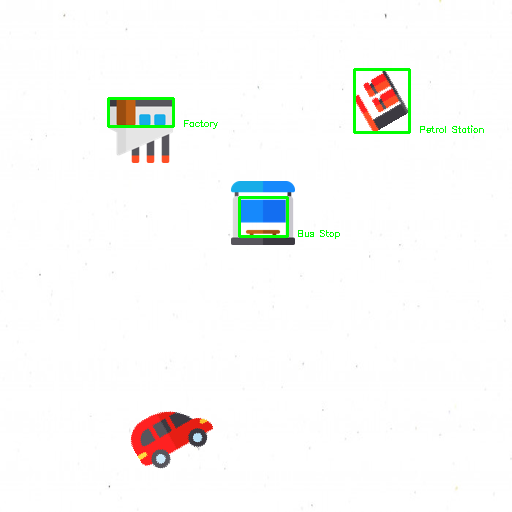
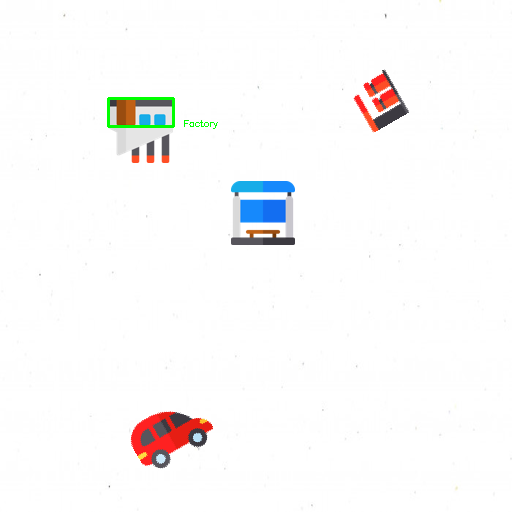
Added custom bfmatcher implementation

Changed region(s): [[0.6875, 0.125, 0.875, 0.2812], [0.4375, 0.375, 0.6562, 0.4688], [0.9062, 0.25, 0.9375, 0.2812]]

diff --git a/task3.py b/task3.py
@@ -3,17 +3,15 @@
 import numpy as np
 import cv2
 import os
-
-from scipy import stats
+import time
 
 # Searches for an icon in an image
 # Input: icon cv2 image; image cv2 image; threshold for accepting a match exists;
 # keypoint descriptors for image; keypoint locations for image; keypoint descriptors for icon
 # Output: array of matching points, each in the form [x, y]
-def findMatchingPoints(icon, image, distanceThreshold, imageDescriptors, imageKeypoints, iconDescriptors):
+def findMatchingPoints(distanceThreshold, imageDescriptors, imageKeypoints, iconDescriptors):
     # Uses sift to generate list of matching points between icon and image
-    bf = cv2.BFMatcher(cv2.NORM_L1, crossCheck = True)
-    matches = bf.match(iconDescriptors, imageDescriptors)
+    matches = matchPoints(iconDescriptors, imageDescriptors)
     # Sorts the matches in ascending order, starting with the closest match 
     matches = sorted(matches, key = lambda x: x.distance)
 
@@ -27,6 +25,31 @@ def findMatchingPoints(icon, image, distanceThreshold, imageDescriptors, imageKe
     # Returns matched points in an easier to use format
     matchedImagePoints = cv2.KeyPoint_convert(matchedImagePoints)
     return matchedImagePoints
+
+def matchPoints(descriptors1, descriptors2):
+    matches = []
+    # Loop through each descriptor in the first set
+    for i, desc1 in enumerate(descriptors1):
+        best_match = None
+        best_distance = float('inf')
+        # Loop through each descriptor in the second set
+        for j, desc2 in enumerate(descriptors2):
+            # Compute distance between descriptors
+            distance = np.linalg.norm(desc1 - desc2, ord=cv2.NORM_L2)
+            # Update best match if distance is smaller
+            if distance < best_distance:
+                best_match = j
+                best_distance = distance
+                
+        # Compute distance from desc2 to desc1
+        distance_reverse = np.linalg.norm(descriptors2[best_match] - desc1, ord=cv2.NORM_L2)
+        # If the match is not symmetric, continue to the next descriptor in set 1
+        if distance_reverse > best_distance:
+            continue
+
+        # Append the best match to the list of matches
+        matches.append(cv2.DMatch(i, best_match, best_distance))
+    return matches
 
 # Generates bounding rectangles around all closed shapes in an image
 # Input: image as cv2 image
@@ -68,9 +91,9 @@ def findBoundingRectangles(image):
 # threshold for determining if two points match; list of bounding rectangles of shapes in image; list of keypoint descriptors in image;
 # list of keypoint locations in image; list of keypoint descriptors in icon
 # Output: tuple of information about the bounding box most likely to contain the icon
-def findIconInImage(icon, iconName, image, pointsThreshold, distanceThreshold, boundingRectangles, imageDescriptors, imageKeypoints, iconDescriptors):
+def findIconInImage(iconName,pointsThreshold, distanceThreshold, boundingRectangles, imageDescriptors, imageKeypoints, iconDescriptors):
     # Finds the matching points of the icon in the image, if they exist
-    matchingPoints = findMatchingPoints(icon, image, distanceThreshold, imageDescriptors, imageKeypoints, iconDescriptors)
+    matchingPoints = findMatchingPoints(distanceThreshold, imageDescriptors, imageKeypoints, iconDescriptors)
 
     # bestMatch is the index of the bounding box most likely to contain icon
     bestMatch = 0
@@ -92,7 +115,7 @@ def findIconInImage(icon, iconName, image, pointsThreshold, distanceThreshold, b
             bestMatch = i
 
     # If there are enough points in any box to constitute a match, return information about that box 
-    if bestMatchMagnitude > pointsThreshold:
+    if bestMatchMagnitude >= pointsThreshold:
         x, y, width, height = boundingRectangles[bestMatch]
         return (bestMatch, bestMatchMagnitude, iconName)
     else:
@@ -110,12 +133,12 @@ def findKeyPoints(images, icons):
     # Uses SIFT to identify keypoints in each, converting to greyscale seems to help performance
     sift = cv2.SIFT_create()
     for image in images:
-        image = cv2.cvtColor(image, cv2.COLOR_RGB2GRAY)
+        # image = cv2.cvtColor(image, cv2.COLOR_RGB2GRAY)
         imageKeypoints, imageDescriptors = sift.detectAndCompute(image, None)
         imagesKeypoints.append(imageKeypoints)
         imagesDescriptors.append(imageDescriptors)
     for icon in icons:
-        icon = cv2.cvtColor(icon, cv2.COLOR_RGB2GRAY)
+        # icon = cv2.cvtColor(icon, cv2.COLOR_RGB2GRAY)
         iconKeypoints, iconDescriptors = sift.detectAndCompute(icon, None)
         iconsDescriptors.append(iconDescriptors)
 
@@ -126,12 +149,14 @@ def findKeyPoints(images, icons):
 # Input: None
 # Output: None
 def main():
+    startTime = time.time()
+
     # Determines how many matching points are needed to count as a match, higher means stricter
-    # For unrotated: 5, forrotated: 3
-    pointsThreshold = 3
+    # For unrotated: 5, for rotated: 3
+    pointsThreshold = 5
     # Determines how similar two points have to be to count as a match, lower means stricter
-    # For unrotated: 1000, for rotated: 1000
-    distanceThreshold = 1000
+    # For unrotated: 50, for rotated: 1000
+    distanceThreshold = 50
 
     # Icon is the smaller image to search for, image is the larger image to search in
     imagesLocation = './Task3Dataset/images/'
@@ -158,6 +183,9 @@ def main():
     # Identifies keypoint info in images and icons
     imagesDescriptors, imagesKeypoints, iconsDescriptors = findKeyPoints(images, icons)
 
+    keypointsTime = time.time()
+    print("Time after identifying keypoints:", keypointsTime - startTime)
+
     for i in range(len(images)):
         # Finds all bounding rectangles within each image
         boundingRectangles = findBoundingRectangles(images[i])
@@ -165,7 +193,7 @@ def main():
         # Finds the bounding box the icon is most likely to fit in
         bestMatchInfo = []
         for j in range(len(iconPaths)):
-            bestMatch = findIconInImage(icons[j], iconNames[j], images[i], pointsThreshold, distanceThreshold, boundingRectangles,
+            bestMatch = findIconInImage(iconNames[j], pointsThreshold, distanceThreshold, boundingRectangles,
                                          imagesDescriptors[i], imagesKeypoints[i], iconsDescriptors[j])
             if bestMatch != None:
                 bestMatchInfo.append(bestMatch)
@@ -188,7 +216,7 @@ def main():
             if bestMatchMagnitude > 0:
                 x, y, width, height = boundingRectangles[bestMatchInfo[bestMatch][0]]
                 iconName = bestMatchInfo[bestMatch][2]
-                print(f"Icon: {iconName}, Position (x, y, width, height): {x, y, width, height}")
+                print(f"Icon: {iconName}, Position (x, y, width, height): {x, y, width, height}, Number of Matches: {bestMatchMagnitude}")
                 cv2.rectangle(images[i], (x, y), (x + width, y + height), (0, 255, 0), 2)
                 cv2.putText(images[i], iconName, (x + width + 10,y + height), 0, 0.3, (0, 255, 0))
 
@@ -201,5 +229,7 @@ def main():
             cv2.imwrite("./Task3OutputImages/" + imagePaths[i], images[i])
             print("Image", i + 1, "done")
     
+    finalTime = time.time()
+    print("End Time:", finalTime - startTime)
 
 main()
